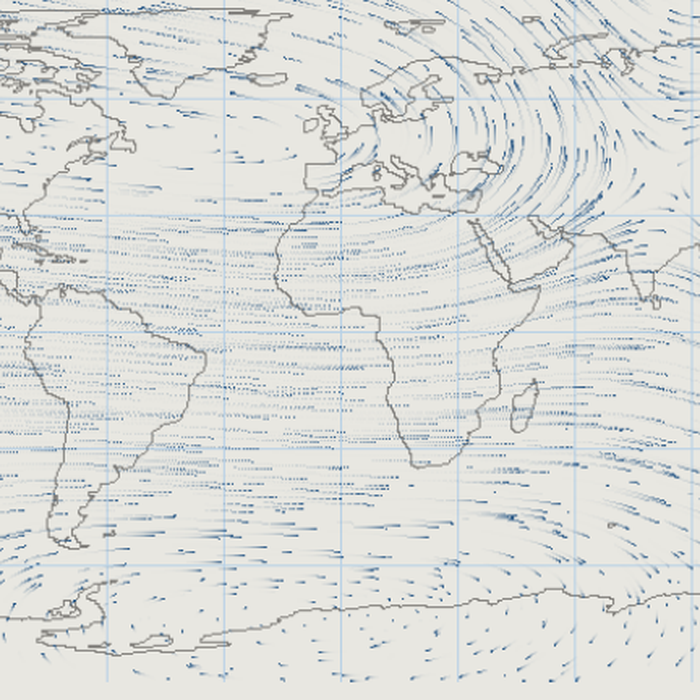
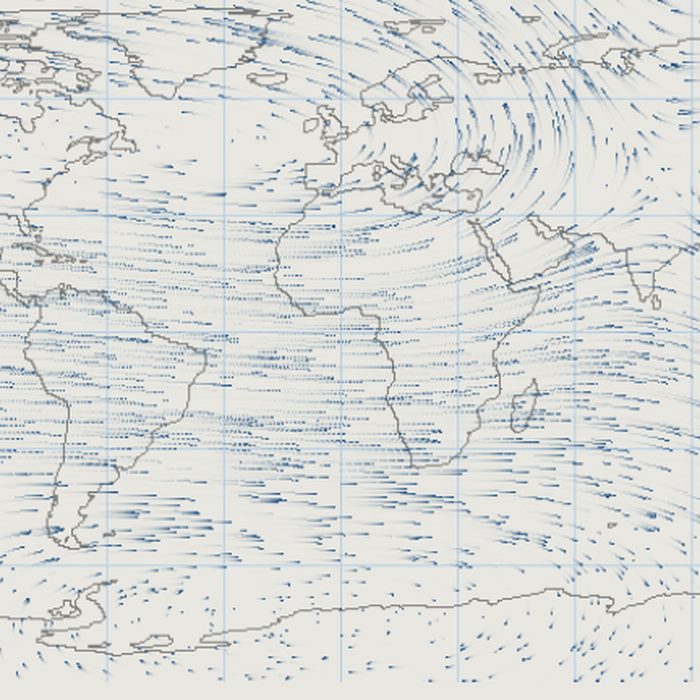
revert(circulation): restore the particle parameters from cb69afe
Back to the particle motion of the last version whose wind field behaved as intended: reference speed is the 80th percentile again, the clip has no lower bound, and the step is 0.30 of the shader's. The 0.55 floor I introduced made weak-wind regions advect at over half speed in whatever direction the residual gradient happened to point, which is what made the tropics look wrong. Motion now matches cb69afe exactly (45N 30W travels +2.8 px east in twelve frames), while keeping the later non-physics work: direct per-particle sampling instead of a full buffer, the smooth seasonal blend, the 1180x500 window and the unpadded square cover.

diff --git a/apps/Physics/Circulation.py b/apps/Physics/Circulation.py
@@ -318,8 +318,8 @@ class CirculationApp(QMainWindow):
             self._wu_t, self._wv_t = nu, nv
             self._wphase = 0.0
         mag = np.hypot(self._wu, self._wv)
-        self._wref = max(1e-6, float(np.median(mag)))
-        self._wgain = self.BW / 144.0 * 0.45           # 参考的 1 像素/帧是相对 144 宽
+        self._wref = max(1e-6, float(np.percentile(mag, 80)))
+        self._wgain = self.BW / 144.0 * 0.30           # 参考的 1 像素/帧是相对 144 宽
 
     def _blend_wind(self):
         """每帧把风场从 a 平滑推向 t，避免整场跳变。"""
@@ -415,7 +415,7 @@ class CirculationApp(QMainWindow):
             vv = _bilinear(self._wv, mx, my)
             m = np.hypot(uu, vv)
             # 方向归一，速度限制在 35%~100%，弱风区也看得见环流
-            k = np.clip(m / self._wref, 0.55, 1.0) / np.maximum(m, 1e-9)
+            k = np.clip(m / self._wref, 0.0, 1.0) / np.maximum(m, 1e-9)
             nx = np.mod(px[ys, xs] + uu * k * self._wgain, BW)
             ny = np.clip(py[ys, xs] - vv * k * self._wgain, 0, BH - 1)
             tx = np.clip(nx.astype(np.int32), 0, BW - 1)
